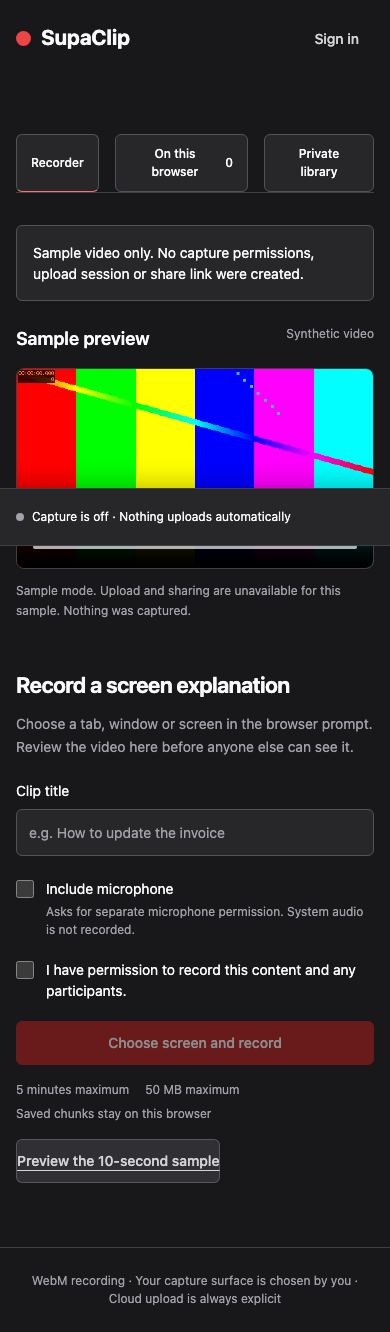
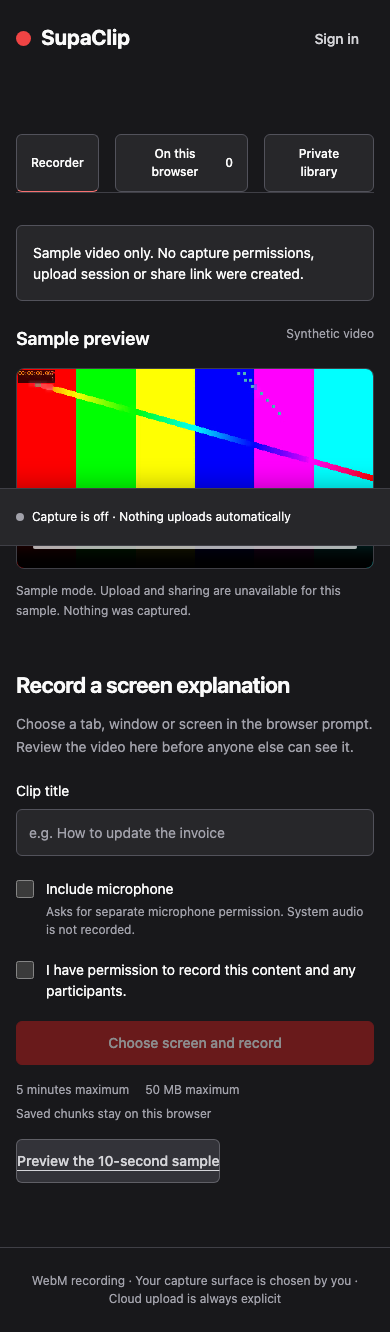
Keep finalized clips until their retention window expires

Changed region(s): [[0.0923, 0.277, 0.9538, 0.3694]]

diff --git a/tests/adapters.test.ts b/tests/adapters.test.ts
@@ -53,6 +53,25 @@ test('missing/expired upload cannot finalize and does not produce final media',a
 test('verified assembled media becomes private playable clip',async()=>{
  const test=fake();const result=await test.service.finalize(id,owner);assert.equal(result.status,'ready');await test.service.playback(id,owner);assert.equal(test.signed,1);
 });
+test('ready stage purge retries on provider failure and marks only successful cleanup',async()=>{
+ for (const fail of [true, false]) {
+  const calls: string[]=[];
+  const client=createClient('https://unit.supabase.co','unit-test-key',{auth:{persistSession:false},global:{fetch:async(input,init)=>{
+   const url=new URL(String(input));const method=init?.method??'GET';calls.push(`${method} ${url.pathname}${url.search}`);
+   const respond=(value:unknown,status=200)=>new Response(JSON.stringify(value),{status,headers:{'content-type':'application/json'}});
+   if(url.pathname==='/rest/v1/supaclip_upload_sessions')return respond([]);
+   if(url.pathname==='/rest/v1/supaclip_clips' && method==='GET')return respond(url.searchParams.get('status')==='eq.deleted'?[]:[{...clip,status:'ready',finalized_at:new Date(Date.now()-4*3600000).toISOString()}]);
+   if(url.pathname==='/rest/v1/supaclip_clips' && method==='PATCH')return respond([]);
+   if(url.pathname==='/rest/v1/supaclip_rate_limits')return respond([]);
+   if(method==='DELETE' && url.pathname.includes('/object/supaclip_parts'))return fail?respond({message:'failed'},500):respond([]);
+   return respond({message:'Unexpected provider path'},500);
+  }}});
+  const service=new Clips(client);
+  if(fail)await assert.rejects(service.cleanup());else await service.cleanup();
+  assert.ok(calls.some(c=>c.includes('finalized_at=lt.')));
+  assert.equal(calls.some(c=>c.startsWith('PATCH /rest/v1/supaclip_clips')),!fail);
+ }
+});
 test('expired/revoked links cannot issue a signed URL',async()=>{
  for(const config of [{expired:true},{revoked:true},{clip:{...clip,status:'deleted'}}]) {const test=fake(config);await assert.rejects(test.service.view('a'.repeat(43)));assert.equal(test.signed,0);}
 });

diff --git a/tests/persistence.test.ts b/tests/persistence.test.ts
@@ -43,6 +43,19 @@ test('atomic share rejects foreign/deleted clips and delete immediately revokes 
  await db.query('select supaclip_delete($1,$2)',[other,row.id]);assert.ok((await db.query<any>('select revoked_at from supaclip_share_tokens where clip_id=$1',[row.id])).rows[0].revoked_at);
  assert.equal((await db.query<any>('select supaclip_share($1,$2,$3,$4) ok',[other,row.id,'newhash',expiry])).rows[0].ok,false);
 });
+test('ready stage cleanup waits three hours after finalization, including old uploads',async()=>{
+ const row=await begin(other,22);
+ await db.query("update supaclip_clips set created_at=now()-interval '23 hours' where id=$1",[row.id]);
+ assert.equal((await db.query<any>('select supaclip_finalize($1,$2,$3) ok',[other,row.id,10])).rows[0].ok,true);
+ const current=await db.query<any>('select finalized_at from supaclip_clips where id=$1',[row.id]);
+ assert.ok(current.rows[0].finalized_at);
+ const eligible=()=>db.query<any>("select id from supaclip_clips where status='ready' and parts_cleaned_at is null and finalized_at < now()-interval '3 hours' and id=$1",[row.id]);
+ assert.equal((await eligible()).rows.length,0);
+ await db.query("update supaclip_clips set finalized_at=now()-interval '3 hours 1 minute' where id=$1",[row.id]);
+ assert.equal((await eligible()).rows.length,1);
+ await db.query('update supaclip_clips set parts_cleaned_at=now() where id=$1',[row.id]);
+ assert.equal((await eligible()).rows.length,0);
+});
 test('database rate limiter enforces repeated requests',async()=>{
  assert.equal((await db.query<any>('select supaclip_rate($1,$2,$3) ok',['test',1,3600])).rows[0].ok,true);
  assert.equal((await db.query<any>('select supaclip_rate($1,$2,$3) ok',['test',1,3600])).rows[0].ok,false);

diff --git a/src/lib/server/clips.ts b/src/lib/server/clips.ts
@@ -116,7 +116,7 @@ export class Clips {
   }
   for (const clip of deleted) await this.remove(clip.id, clip.owner_id);
   // Purge stage parts of ready clips too (old signed stage URLs may outlive finalization).
-  const ready = dbResult(await this.admin.from('supaclip_clips').select('*').eq('status', 'ready').is('parts_cleaned_at', null).lt('created_at', new Date(Date.now()-3*3600000).toISOString()).order('created_at').limit(100)) as Clip[];
+  const ready = dbResult(await this.admin.from('supaclip_clips').select('*').eq('status', 'ready').is('parts_cleaned_at', null).lt('finalized_at', new Date(Date.now()-3*3600000).toISOString()).order('finalized_at').limit(100)) as Clip[];
   for (const clip of ready) {
    dbResult(await this.admin.storage.from(PART_BUCKET).remove(Array.from({ length: Math.ceil(clip.size / PART_BYTES) }, (_, i) => partPath(clip, i))));
    dbResult(await this.admin.from('supaclip_clips').update({ parts_cleaned_at: new Date().toISOString() }).eq('id', clip.id));

diff --git a/docs/IMPLEMENTATION.md b/docs/IMPLEMENTATION.md
@@ -1,5 +1,16 @@
 # SupaClip implementation
 
+## Correction checks declared before edits (2026-10-13)
+
+- Staged parts: `npm test` must prove finalization records its time, a ready clip is not swept while a signed part URL may remain valid, a failed purge remains eligible, and a successful purge after the window is marked complete. The schema change must be additive in this unapplied SQL.
+- Project gates: `npm run check`, `npm run lint`, `npm test`, `npm run build`, and `npm run test:browser` (browser execution may require the parent's macOS environment).
+
+### Correction result
+
+The unapplied `supabase/supaclip.sql` adds nullable `supaclip_clips.finalized_at`, set atomically by `supaclip_finalize`. The installed `@supabase/storage-js` documents signed upload URLs as valid for two hours (`StorageFileApi.ts`); ready-clip stage cleanup waits three hours from finalization to cover outstanding URLs for uploads finalized late in their 24-hour session. A failed Storage remove leaves `parts_cleaned_at` null, so maintenance retries; only a successful remove marks it complete. No existing data is deleted or rewritten. The server's internal clip row has an added timestamp; endpoint requests and responses are unchanged. Parent must review/apply this revised unapplied schema before deploying the corresponding code and keep the 15-minute maintenance schedule.
+
+Correction verification (local, no cloud operations): `npm run check` exit 0 (`svelte-check found 0 errors and 0 warnings`); `npm run lint` exit 0; `npm test` 31/31 passed, including PostgreSQL finalization-time eligibility and failed/successful Storage purge tests; `npm run build` exit 0 (`Using @sveltejs/adapter-vercel`, `✔ done`); `git diff --check` exit 0. `npm run test:browser` exited 1 with all 10 tests blocked before page load by Chromium `bootstrap_check_in ... Permission denied (1100)` in the macOS sandbox. Parent must run the browser suite outside this sandbox and perform the real signed PUT/finalization/late-write check after applying SQL.
+
 ## Plan before editing
 
 Authorization: build the appended web PRD's US-001–005 and preserve the native Tauri recorder. Parent owns install assistance, migrations, credentials, deployment and independent review. Original clone is read-only; its only dirty item is `.vscode/`, unrelated to product behavior.
